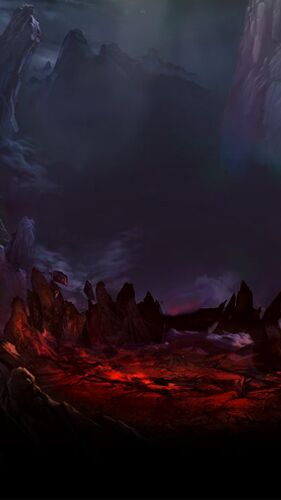
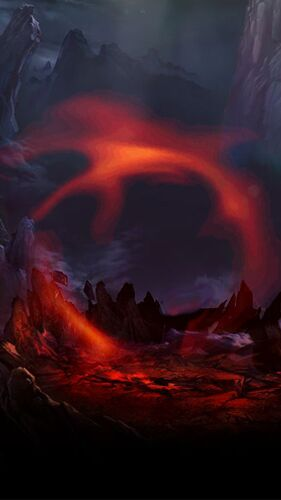
proj 4 update
first page

Changed region(s): [[0.0, 0.18, 0.9964, 0.78]]

diff --git a/4.Kill_the_Monster/index.html b/4.Kill_the_Monster/index.html
@@ -70,6 +70,46 @@
 		margin: 20% 5%;
 		z-index: 96;
 	}
+
+	#c1{
+		position: absolute;
+		width: 85%;
+		height: 52%;
+		margin-top: 31%;
+		margin-left: 8%;
+		background-image: url(c1.png);
+		background-Size: 100% 100%;
+		background-Repeat: no-repeat;
+	}
+	
+	#f1{
+		position: absolute;
+		width: 30%;
+		height: 5%;
+		margin-top: 126.5%;
+		margin-left: 36.2%;
+		background-image: url(f1.png);
+		background-Size: 100% 100%;
+		background-Repeat: no-repeat;
+		
+		-webkit-animation-name: start;
+		-webkit-animation-duration: 1s;
+		animation-iteration-count: infinite;
+		animation-direction: alternate-reverse;
+		animation-name: start;
+		animation-duration: 1s
+	}
+	
+	@-webkit-keyframes start {
+		0%   {opacity:1;}
+		100% {opacity:0;}
+	}
+	
+	@keyframes start { 
+		0%   {opacity:1;}
+		100% {opacity:0;}
+	}
+	
 	#canvas{
 		position: absolute;
 		width:100%;
@@ -82,7 +122,9 @@
 <body onload="lp()" style="background-color:black" onContextMenu="return false;">
 	<div id="loader"></div>
 	<div id="container" class="animate-bottom" >
-		<div id="inner_container">			
+		<div id="inner_container">		
+			<div id="c1"></div>
+			<div id="f1"></div>
 		</div>
 	</div>	
 	<script id="x" type="text/javascript">
